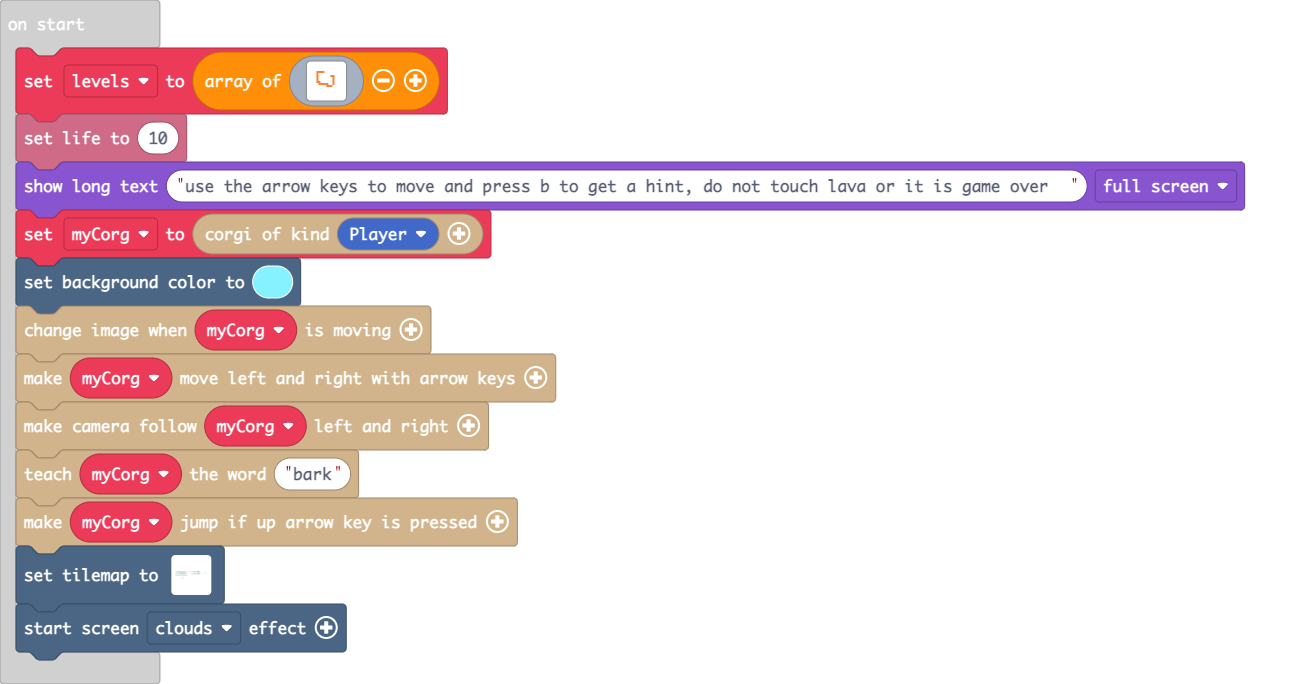
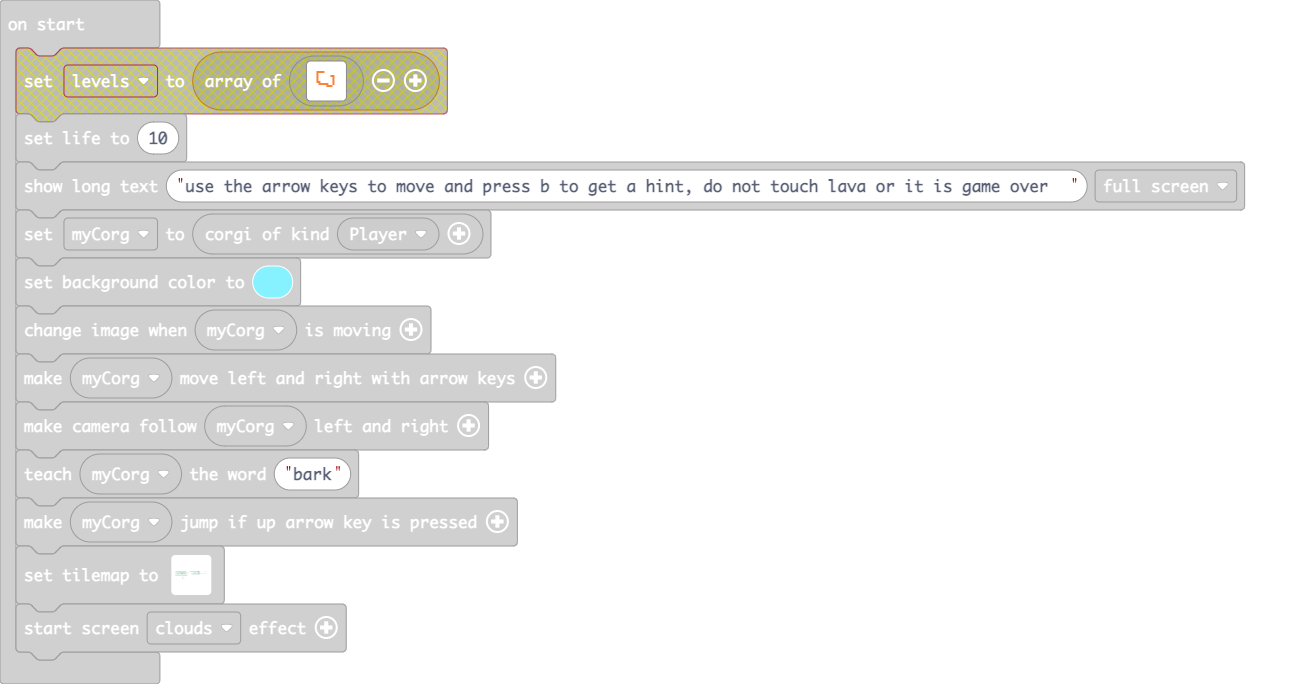
Update main.blocks, main.ts

Changed region(s): [[0.0, 0.0614, 0.9869, 0.9825]]

diff --git a/main.ts b/main.ts
@@ -27,24 +27,6 @@ scene.onOverlapTile(SpriteKind.Player, sprites.castle.tileDarkGrass2, function (
 let y = 0
 let x = 0
 let myCorg: Corgio = null
-let levels = [img`
-    . . . . . . . . . . . . . . . . 
-    . . . . . . . . . . . . . . . . 
-    . . . . . . . . . . . . . . . . 
-    . . . 4 4 4 4 . . . . . . . . . 
-    . . . 4 . . . . . . . . . . . . 
-    . . . 4 . . . . . . 4 4 . . . . 
-    . . . 4 . . . . . . . 4 . . . . 
-    . . . 4 . . . . . . . 4 . . . . 
-    . . . 4 4 . . . . . . 4 . . . . 
-    . . . . 4 4 4 4 4 . . 4 . . . . 
-    . . . . . . . . 4 4 4 . . . . . 
-    . . . . . . . . . . . . . . . . 
-    . . . . . . . . . . . . . . . . 
-    . . . . . . . . . . . . . . . . 
-    . . . . . . . . . . . . . . . . 
-    . . . . . . . . . . . . . . . . 
-    `]
 info.setLife(10)
 game.showLongText("use the arrow keys to move and press b to get a hint, do not touch lava or it is game over  ", DialogLayout.Full)
 myCorg = corgio.create(SpriteKind.Player)
